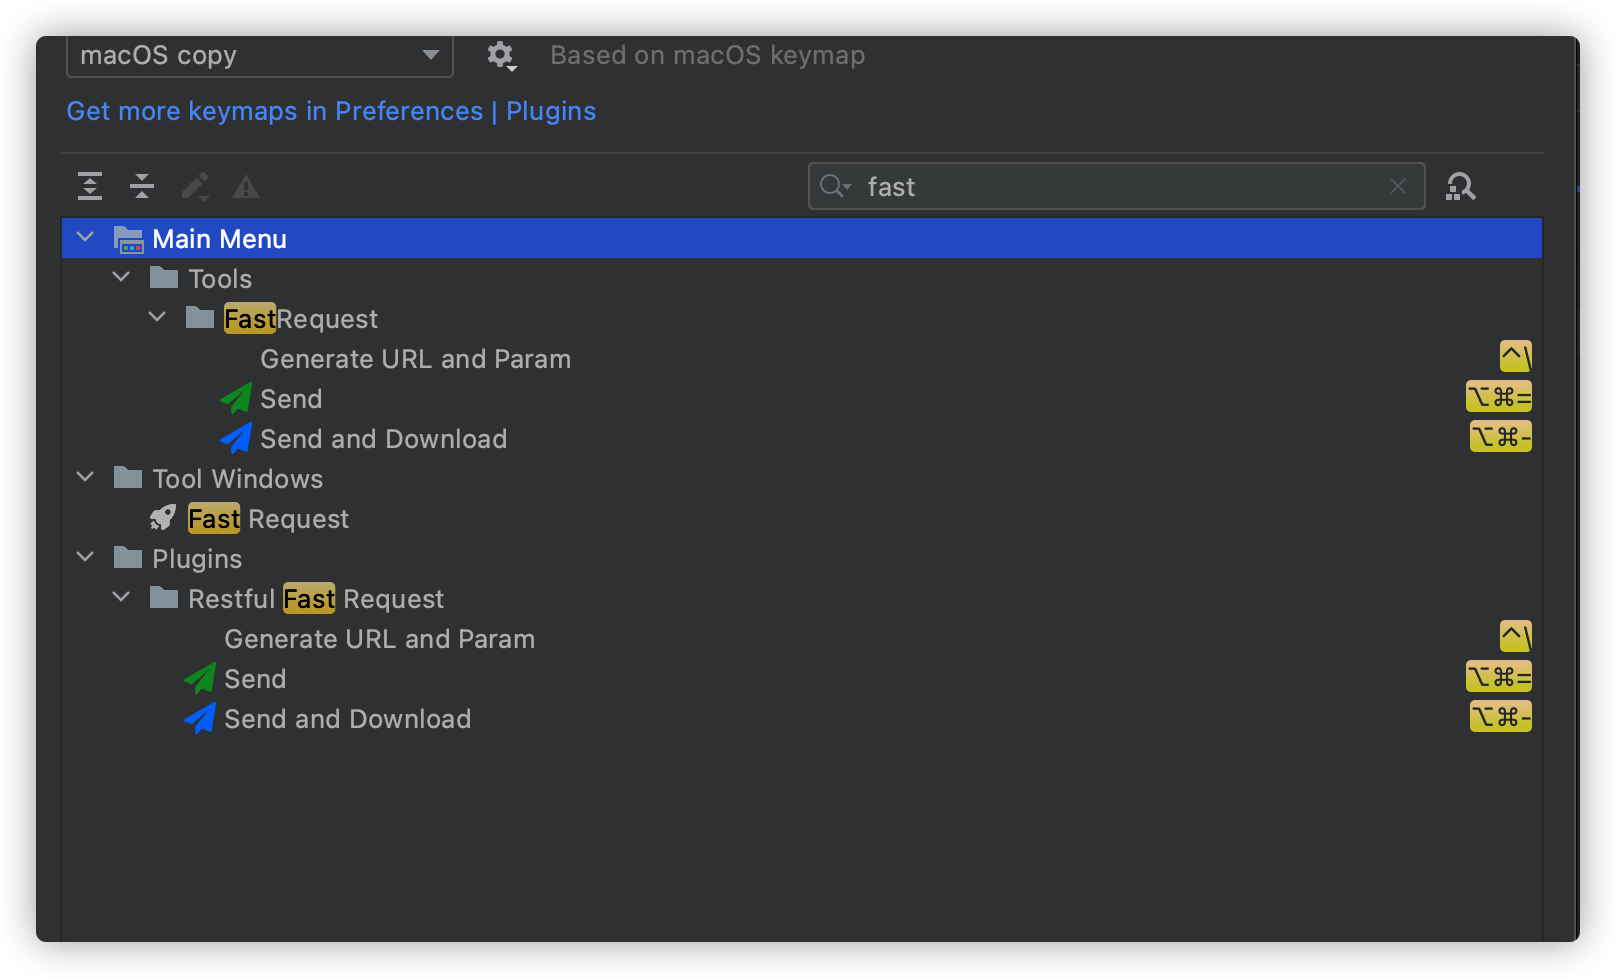
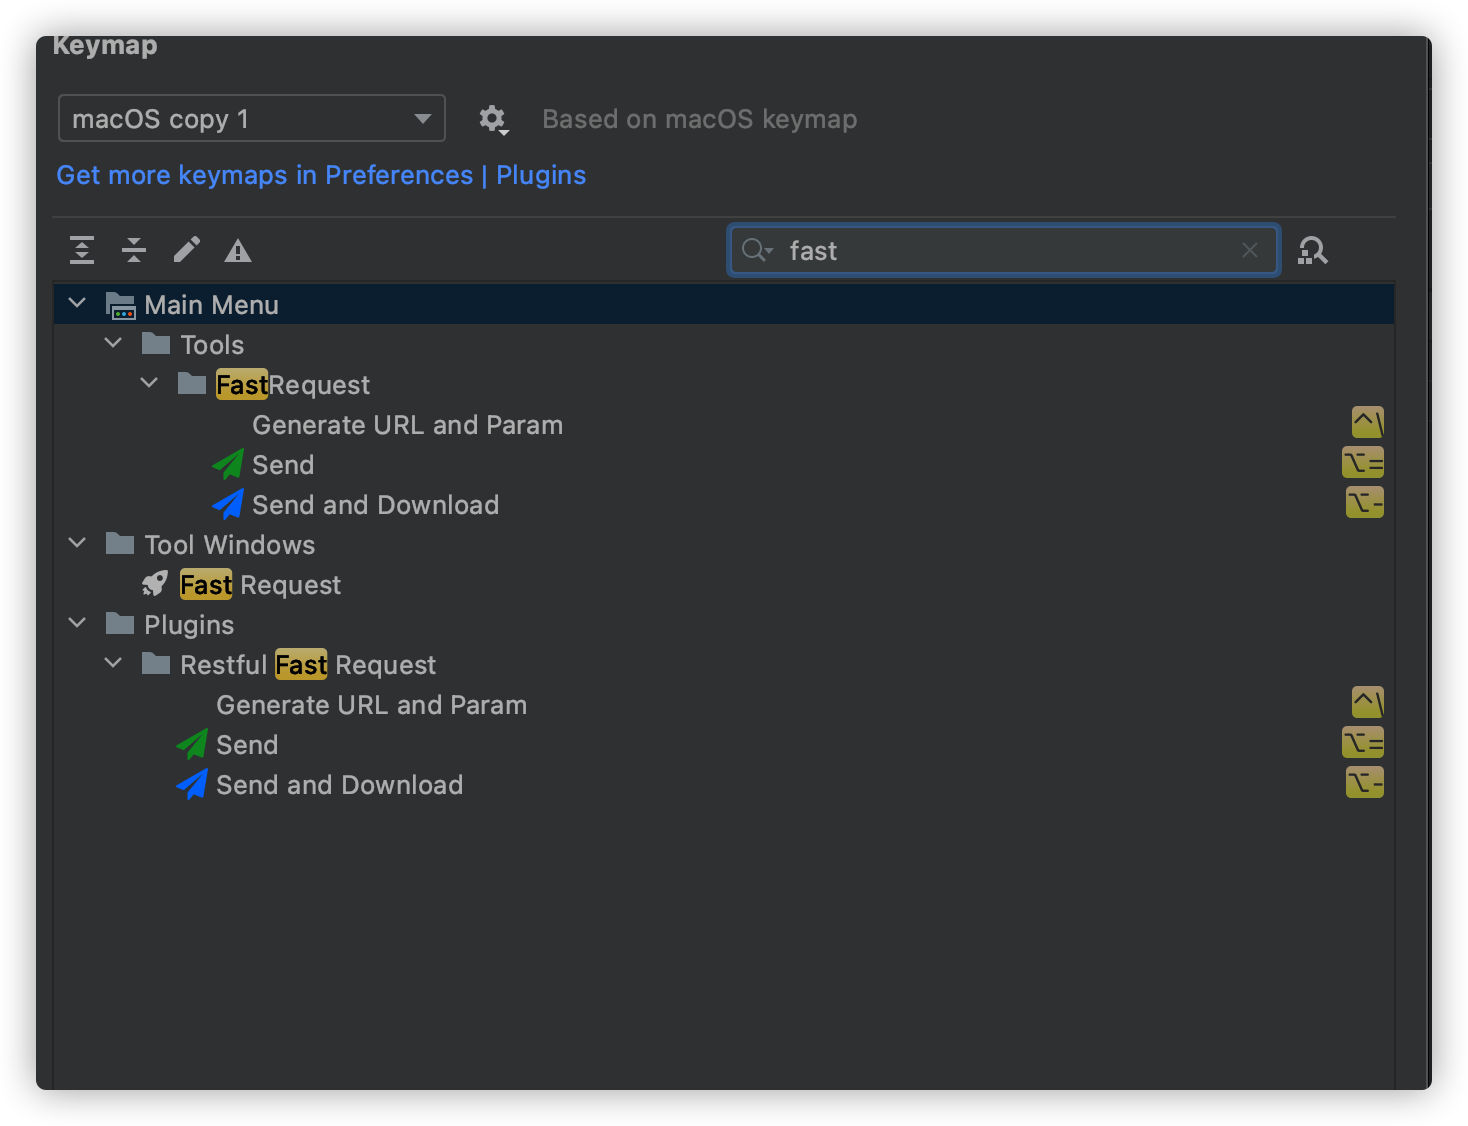
2.0.8 doc

Changed region(s): [[0.0307, 0.0307, 0.9809, 0.9816]]

diff --git a/docs/en/guide/whatsnew.md b/docs/en/guide/whatsnew.md
@@ -13,9 +13,6 @@
 :::tip send/sendDownload button support for custom shortcut keys
 
 ```
-send request: ctrl alt =
-send and download: ctrl alt -
-
 shortcut is available anywhere to trigger the event,No longer need to focus on the tool window
 ```
 

diff --git a/docs/guide/whatsnew.md b/docs/guide/whatsnew.md
@@ -13,9 +13,6 @@
 :::tip send/sendDownload支持自定义快捷键
 
 ```
-send request: ctrl alt =
-send and download: ctrl alt -
-
 快捷键在任意位置点击均可触发,不再需要聚焦到工具窗口
 ```
 
